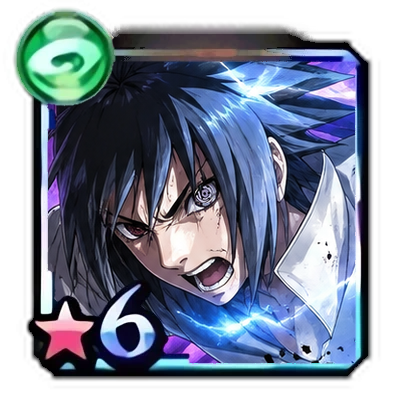
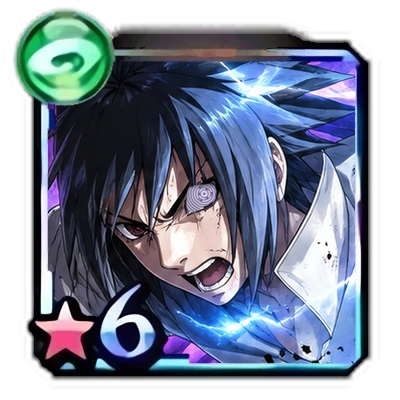
Sasuke 668: Rinnegan fills the whole eye
The Rinnegan's rings now cover the whole eye opening, white included,
instead of only the iris. Full art and portrait. Service worker cache v175.

Claude-Session: https://claude.ai/code/session_01Wg6gZH8DhdV88vL5smfUPY

Changed region(s): [[0.45, 0.45, 0.54, 0.54]]

diff --git a/sw.js b/sw.js
@@ -1,4 +1,4 @@
-const CACHE = 'blazing-shell-v174';
+const CACHE = 'blazing-shell-v175';
 const BASE = new URL('./', self.location.href).pathname;
 const SHELL = [
   'index.html',
